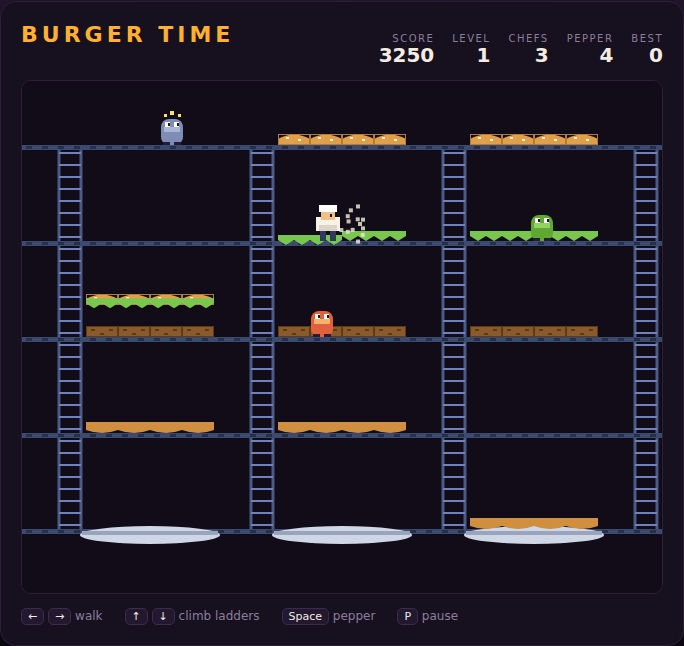
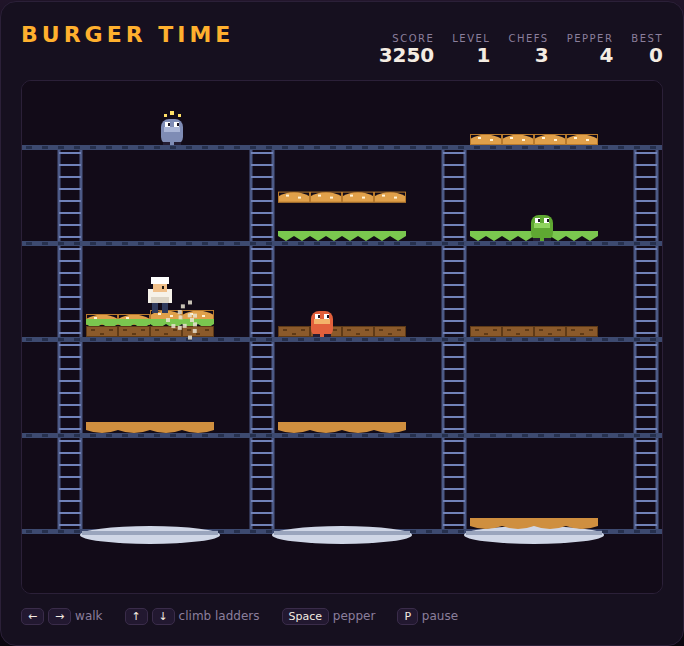
Cap ingredient chains and pile layers on a floor
A falling ingredient could knock the whole column loose all the way to the
plate, so one stamped crossing cleared a burger and a level took three. An
ingredient may now push the pile below it once: the group drops one extra
floor and comes to rest as a pile, which the chef can stamp down as a unit.

- pileAt()/layerRank() keep a floor's layers in burger order, bottom bun down
- falling ingredients resolve lowest layer first so groups land in order
- piles are drawn stacked, with the chef standing on top of them
- 4 new tests for piling, chain-capping and stamping only the pile's top
- README/DESIGN updated; Burger Time marked Complete

Claude-Session: https://claude.ai/code/session_019YySgAxnNjXHvdS6zetNEq

Changed region(s): [[0.3991, 0.2786, 0.614, 0.4025], [0.1228, 0.4025, 0.3377, 0.5263], [0.3991, 0.1858, 0.5833, 0.2477]]

diff --git a/BurgerTime/game.js b/BurgerTime/game.js
@@ -160,6 +160,7 @@ function buildIngredients() {
                 y: FLOOR_Y[k],
                 state: 'rest',            // 'rest' | 'falling' | 'plated'
                 pressed: new Array(SEGMENTS).fill(false),
+                hasPushed: false,         // already knocked a pile loose this fall
                 plateIndex: -1,
             });
         }
@@ -290,43 +291,70 @@ function updateChef(dt) {
     }
 }
 
-// Stamp whichever ingredient segment the chef is standing on.
+// Stamp the top ingredient of whichever pile the chef is standing on.
 function stampUnderChef() {
     const floor = floorIndexAt(chef.y);
     if (floor < 0) return;
     const stack = stackIndexAt(chef.x);
     if (stack < 0) return;
-    for (const ing of ingredients) {
-        if (ing.state !== 'rest' || ing.stack !== stack || ing.floor !== floor) continue;
-        const seg = clamp(Math.floor((chef.x - ingredientLeft(ing)) / SEG_W), 0, SEGMENTS - 1);
-        if (!ing.pressed[seg]) {
-            ing.pressed[seg] = true;
-            if (ing.pressed.every(Boolean)) dropIngredient(ing);
-        }
-    }
+    const pile = pileAt(stack, floor);
+    if (!pile.length) return;
+    const top = pile[pile.length - 1];
+    const seg = clamp(Math.floor((chef.x - ingredientLeft(top)) / SEG_W), 0, SEGMENTS - 1);
+    if (top.pressed[seg]) return;
+    top.pressed[seg] = true;
+    if (top.pressed.every(Boolean)) dropPile(stack, floor);
 }
 
 // ---------------------------------------------------------------------------
 // Ingredients
 // ---------------------------------------------------------------------------
 
+// Layer order within a burger: 0 is the top bun, 3 the bottom bun. Ingredients
+// can never overtake each other, so this doubles as the stacking order of any
+// pile — the highest rank sits on the bottom.
+function layerRank(ing) {
+    return KINDS.indexOf(ing.kind);
+}
+
+// The ingredients resting on one floor of one stack, bottom layer first.
+function pileAt(stack, floor) {
+    return ingredients
+        .filter((i) => i.state === 'rest' && i.stack === stack && i.floor === floor)
+        .sort((a, b) => layerRank(b) - layerRank(a));
+}
+
+// How many resting ingredients this one is sitting on (0 = on the floor).
+function pileHeightOf(ing) {
+    return Math.max(0, pileAt(ing.stack, ing.floor).indexOf(ing));
+}
+
+// Send a whole pile down one floor. `hasPushed` is what stops the chain: an
+// ingredient may knock the pile below it loose once, and after that it just
+// comes to rest on top of whatever it finds.
+function dropPile(stack, floor) {
+    const pile = pileAt(stack, floor);
+    for (const ing of pile) {
+        ing.state = 'falling';
+        ing.hasPushed = false;
+        ing.targetFloor = Math.min(floor + 1, PLATE_FLOOR);
+        ing.pressed.fill(false);
+        addScore(DROP_POINTS);
+    }
+    return pile;
+}
+
+// Drop the pile the given ingredient belongs to (the tests' entry point).
 function dropIngredient(ing) {
     if (ing.state !== 'rest') return;
-    ing.state = 'falling';
-    ing.targetFloor = Math.min(ing.floor + 1, PLATE_FLOOR);
-    addScore(DROP_POINTS);
+    dropPile(ing.stack, ing.floor);
 }
 
-function restingIngredientAt(stack, floor, except) {
+// An ingredient of the same stack already on its way down past this floor: the
+// arriving one rides along instead of stopping in mid-air.
+function ridingIngredientAt(stack, floor, except) {
     return ingredients.find((i) => i !== except && i.stack === stack
-        && i.floor === floor && i.state === 'rest');
-}
-
-// Another ingredient of the same stack already falling past this floor — the
-// arriving one rides down with it rather than landing on thin air.
-function fallingIngredientAt(stack, floor, except) {
-    return ingredients.find((i) => i !== except && i.stack === stack
-        && i.state === 'falling' && i.y >= FLOOR_Y[floor] - 1);
+        && i.state === 'falling' && i.targetFloor > floor && i.y >= FLOOR_Y[floor] - 1);
 }
 
 function plateIngredient(ing) {
@@ -347,21 +375,27 @@ function landIngredient(ing) {
         plateIngredient(ing);
         return;
     }
-    const blocker = restingIngredientAt(ing.stack, floor, ing);
-    if (blocker) {
-        // Knock the ingredient below loose; both continue to the next floor.
-        blocker.state = 'falling';
-        blocker.pressed.fill(false);
-        blocker.targetFloor = Math.min(floor + 1, PLATE_FLOOR);
+    const pile = pileAt(ing.stack, floor);
+    if (pile.length && !ing.hasPushed) {
+        // Knock the pile below loose; everything drops one more floor together.
+        for (const below of pile) {
+            below.state = 'falling';
+            below.hasPushed = true;
+            below.pressed.fill(false);
+            below.targetFloor = Math.min(floor + 1, PLATE_FLOOR);
+        }
+        ing.hasPushed = true;
         ing.targetFloor = Math.min(floor + 1, PLATE_FLOOR);
         return;
     }
-    if (fallingIngredientAt(ing.stack, floor, ing)) {
-        // Part of a cascade: keep riding down with the rest of the column.
+    if (!pile.length && ridingIngredientAt(ing.stack, floor, ing)) {
+        // The rest of this pile is still going down; ride along with it.
+        ing.hasPushed = true;
         ing.targetFloor = Math.min(floor + 1, PLATE_FLOOR);
         return;
     }
     ing.state = 'rest';
+    ing.hasPushed = false;
     ing.pressed.fill(false);
 }
 
@@ -378,7 +412,11 @@ function squashEnemiesUnder(ing) {
 }
 
 function updateIngredients(dt) {
-    for (const ing of ingredients) {
+    // Lower layers are resolved first so that a pile lands (and plates) in the
+    // right order when several ingredients arrive on the same frame.
+    const falling = ingredients.filter((i) => i.state === 'falling')
+        .sort((a, b) => layerRank(b) - layerRank(a));
+    for (const ing of falling) {
         if (ing.state !== 'falling') continue;
         ing.y += FALL_SPEED * dt;
         squashEnemiesUnder(ing);
@@ -630,13 +668,19 @@ function drawMaze() {
     }
 }
 
+// Height of the pile an entity standing at (stack, floor) is walking on.
+function pileLift(stack, floor) {
+    return pileAt(stack, floor).length * (INGREDIENT_H - 3);
+}
+
 function drawIngredient(ing) {
     const style = INGREDIENT_STYLE[ing.kind];
     const left = ingredientLeft(ing);
+    const stacked = ing.state === 'rest' ? pileHeightOf(ing) * (INGREDIENT_H - 3) : 0;
     for (let s = 0; s < SEGMENTS; s++) {
         const sunk = ing.state === 'rest' && ing.pressed[s] ? 4 : 0;
         const x = left + s * SEG_W;
-        const y = ing.y - INGREDIENT_H + sunk;
+        const y = ing.y - INGREDIENT_H + sunk - stacked;
         ctx.fillStyle = style.fill;
         if (ing.kind === 'topbun') {
             ctx.beginPath();
@@ -683,7 +727,10 @@ function drawIngredient(ing) {
 
 function drawChef() {
     const x = chef.x;
-    const y = chef.y;
+    // Purely cosmetic: stand the chef on top of the pile he is walking over.
+    const floor = floorIndexAt(chef.y);
+    const stack = stackIndexAt(chef.x);
+    const y = chef.y - (floor >= 0 && stack >= 0 ? pileLift(stack, floor) : 0);
     // legs
     ctx.fillStyle = '#2f3a5c';
     ctx.fillRect(x - 8, y - 10, 6, 10);

diff --git a/BurgerTime/tests/burgertime.spec.js b/BurgerTime/tests/burgertime.spec.js
@@ -430,18 +430,81 @@ test.describe('Burger Time', () => {
             expect(res.top).toBe('falling');
         });
 
-        test('a cascade carries every ingredient in the column to the plate', async ({ page }) => {
+        test('a knocked-loose pair settles two floors down as one pile', async ({ page }) => {
             const res = await page.evaluate(() => {
                 startGame(); autoLoop = false;
                 const stack = ingredients.filter((i) => i.stack === 1);
-                dropIngredient(stack.find((i) => i.floor === 0));
-                for (let i = 0; i < 1200; i++) {
-                    step(0.016);
-                    if (stack.every((s) => s.state === 'plated')) break;
-                }
-                return stack.map((s) => s.state);
+                const top = stack.find((i) => i.kind === 'topbun');
+                dropIngredient(top);
+                for (let i = 0; i < 400 && stack.some((s) => s.state === 'falling'); i++) step(0.016);
+                return {
+                    states: stack.map((s) => s.state),
+                    pile: pileAt(1, 2).map((s) => s.kind),
+                    lonely: pileAt(1, 3).map((s) => s.kind),
+                };
             });
-            expect(res).toEqual(['plated', 'plated', 'plated', 'plated']);
+            // top bun lands on the lettuce, which is pushed onto the patty's floor
+            expect(res.states).toEqual(['rest', 'rest', 'rest', 'rest']);
+            expect(res.pile).toEqual(['patty', 'lettuce', 'topbun']);
+            expect(res.lonely).toEqual(['bottombun']);
+        });
+
+        test('the chain stops after one push — one drop cannot clear a column', async ({ page }) => {
+            const plated = await page.evaluate(() => {
+                startGame(); autoLoop = false;
+                dropIngredient(ingredients.find((i) => i.stack === 1 && i.kind === 'topbun'));
+                for (let i = 0; i < 600; i++) step(0.016);
+                return ingredients.filter((i) => i.state === 'plated').length;
+            });
+            expect(plated).toBe(0);
+        });
+
+        test('stamping a pile drops every ingredient in it', async ({ page }) => {
+            const res = await page.evaluate(() => {
+                startGame(); autoLoop = false;
+                const stack = ingredients.filter((i) => i.stack === 1);
+                dropIngredient(stack.find((i) => i.kind === 'topbun'));
+                for (let i = 0; i < 400 && stack.some((s) => s.state === 'falling'); i++) step(0.016);
+                score = 0;
+                // Walk the whole width of the three-high pile now sitting on floor 2.
+                setChefAt(STACK_X[1] - 8, FLOOR_Y[2]);
+                input.right = true;
+                for (let i = 0; i < 200 && pileAt(1, 2).length === 3; i++) step(0.016);
+                return { falling: stack.filter((s) => s.state === 'falling').length, score };
+            });
+            expect(res.falling).toBe(3);
+            expect(res.score).toBe(150); // 50 per ingredient in the pile
+        });
+
+        test('a pile dropped onto the last layer plates the whole burger in order', async ({ page }) => {
+            const res = await page.evaluate(() => {
+                startGame(); autoLoop = false;
+                const stack = ingredients.filter((i) => i.stack === 1);
+                dropIngredient(stack.find((i) => i.kind === 'topbun'));
+                for (let i = 0; i < 400 && stack.some((s) => s.state === 'falling'); i++) step(0.016);
+                dropIngredient(pileAt(1, 2)[0]);
+                for (let i = 0; i < 600 && !stack.every((s) => s.state === 'plated'); i++) step(0.016);
+                return stack.slice().sort((a, b) => a.plateIndex - b.plateIndex).map((s) => s.kind);
+            });
+            expect(res).toEqual(['bottombun', 'patty', 'lettuce', 'topbun']);
+        });
+
+        test('only the top of a pile can be stamped', async ({ page }) => {
+            const res = await page.evaluate(() => {
+                startGame(); autoLoop = false;
+                const stack = ingredients.filter((i) => i.stack === 1);
+                dropIngredient(stack.find((i) => i.kind === 'topbun'));
+                for (let i = 0; i < 400 && stack.some((s) => s.state === 'falling'); i++) step(0.016);
+                setChefAt(STACK_X[1] + SEG_W * 0.5, FLOOR_Y[2]);
+                step(0.016);
+                const pile = pileAt(1, 2);
+                return {
+                    top: pile[pile.length - 1].pressed.slice(),
+                    buried: pile[0].pressed.slice(),
+                };
+            });
+            expect(res.top).toEqual([true, false, false, false]);
+            expect(res.buried).toEqual([false, false, false, false]);
         });
 
         test('an ingredient reaching the bottom is plated and scores', async ({ page }) => {

diff --git a/BurgerTime/DESIGN.md b/BurgerTime/DESIGN.md
@@ -37,22 +37,34 @@ Entity positions are "feet" coordinates: `y` is the surface the entity stands on
 ### Stamping ingredients
 
 An ingredient is divided into `SEGMENTS = 4` segments, each 32 px wide. While the
-chef stands on the floor an ingredient rests on, whichever segment his `x` falls
-inside is stamped (`pressed[i] = true`) and visibly sinks. When all four segments
-of an ingredient are stamped it drops (+`DROP_POINTS`).
+chef stands on a floor, whichever segment of the *top* ingredient of the pile
+there his `x` falls inside is stamped (`pressed[i] = true`) and visibly sinks.
+When all four segments are stamped the whole pile drops together, scoring
+`DROP_POINTS` per ingredient — so knocking a tall pile down is worth more than
+nudging a single layer.
 
-### Falling and cascading
+### Falling, pushing and piling
 
 A falling ingredient descends at `FALL_SPEED` px/s toward the next floor down.
 On arrival:
 
 - **Plate floor** → the ingredient is plated (+`PLATE_POINTS`) and stops for good.
   Plated ingredients pile visibly on the plate and can never be stamped again.
-- **Occupied by a resting ingredient** → that ingredient is knocked loose too
-  (its stamps reset) and *both* keep falling to the next floor. This is the
-  chain reaction that lets a well-timed drop clear a whole column.
+- **Occupied by a resting pile, and this ingredient has not pushed yet** → that
+  pile is knocked loose (stamps reset) and everything — pusher and pushed —
+  continues one more floor together. The `hasPushed` flag then stops the chain:
+  the group comes to rest wherever it lands next, however much is already there.
+  One stamped crossing therefore moves a burger *two* floors at most, not all the
+  way to the plate.
 - **Empty floor** → the ingredient comes to rest there with its stamps cleared,
-  ready to be walked across again.
+  ready to be walked across again. If the rest of its group is still falling past
+  that floor it rides along instead of stopping in mid-air.
+
+Because ingredients can never overtake each other, a pile's stacking order is
+just the burger's own layer order (`layerRank`): the bottom bun always ends up on
+the bottom and the top bun on top, on any floor and on the plate. Falling
+ingredients are resolved lowest-layer-first each frame so a group that lands
+together lands in the right order.
 
 Any enemy standing under a falling ingredient (inside the stack's horizontal
 span) is squashed for `SQUASH_POINTS`.
@@ -111,7 +123,10 @@ Snake and the rest of the repo, so its state and functions are reachable from th
 Playwright tests as plain globals.
 
 - **Pure geometry helpers** — `floorIndexAt(y)`, `nearestFloorIndex(y)`,
-  `nearestLadderX(x)`, `stackIndexAt(x)`.
+  `nearestLadderX(x)`, `stackIndexAt(x)`, plus `pileAt(stack, floor)` which
+  returns the ingredients resting on one floor of one stack, bottom layer first.
+  `plateAll()` is a test/debug shortcut that drops every ingredient straight onto
+  its plate.
 - **`step(dt)`** advances the whole simulation: chef, ingredients, enemies,
   pepper clouds, spawn timer, collisions. All speeds are per second.
 - **`draw()`** renders; it never mutates simulation state.
@@ -143,6 +158,13 @@ Where the brief was open-ended the simpler option was taken, and recorded here:
   through the chef harmlessly — only enemies are squashed.
 - **No stack-height bonus.** Squashing several enemies with one drop scores
   `SQUASH_POINTS` each, with no escalating multiplier.
+- **Piles are physics-free.** Ingredients stacked on one floor are drawn on top
+  of each other and the chef is drawn standing on top of the pile, but his
+  collision height and the enemies' stay at floor level. It reads correctly and
+  keeps every position exactly on the floor grid.
+- **Chains stop after one push**, as described above. Letting them run would mean
+  a single crossing could plate an entire burger, which makes a level three
+  crossings long; capping the chain gives the level about a dozen.
 - **Instant transitions.** Losing a life and completing a level both take effect
   immediately (no death animation or interstitial screen), which keeps the state
   machine to `idle / running / paused / over`.

diff --git a/BurgerTime/README.md b/BurgerTime/README.md
@@ -10,9 +10,11 @@ platforms and ladders — while the food fights back.
 Open `index.html` in any browser. No build step, no server.
 
 Walk across an ingredient and each segment you cross is stamped down. Stamp all
-four segments and the ingredient drops to the platform below — and anything it
-lands on drops with it. Get all twelve ingredients onto the plates at the bottom
-to finish the level.
+four segments and it drops to the platform below — landing on another layer
+knocks that one loose too, so the pair falls an extra floor and lands as a pile.
+Stamp the top of a pile and the whole pile goes down together, which is how you
+plate a burger in a couple of well-planned trips. Get all twelve ingredients onto
+the plates at the bottom to finish the level.
 
 A hot dog, a pickle and a fried egg chase you through the maze. Touch one and
 you lose a chef. When they get too close, hit them with a puff of pepper: they

diff --git a/README.md b/README.md
@@ -109,7 +109,7 @@ For each new game, put it in a new folder. Each game should have its own README.
 | TriPeaks Solitaire | [TriPeaks/](TriPeaks/) | Complete |
 | Kakuro | [Kakuro/](Kakuro/) | Complete |
 | Kaboom! | [Kaboom/](Kaboom/) | Complete |
-| Burger Time | [BurgerTime/](BurgerTime/) | In Progress |
+| Burger Time | [BurgerTime/](BurgerTime/) | Complete |
 
 ## Playing
 
